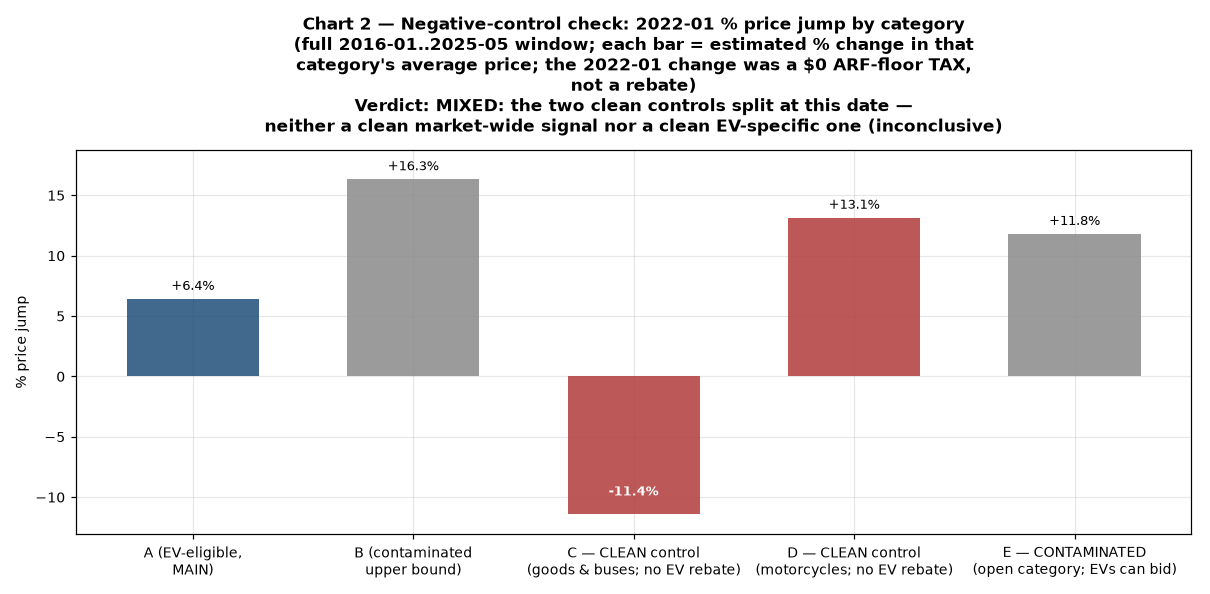
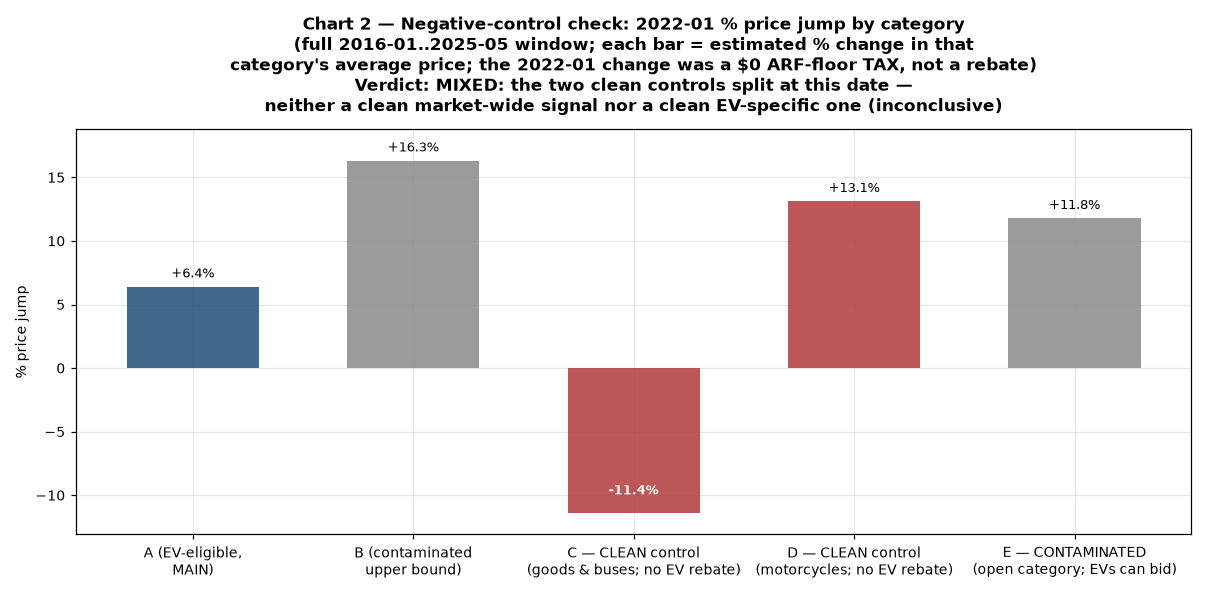
Chart 2: collapse the 2nd title line from 3 lines to 2
The parenthetical now breaks once ('...% change in that' / "category's average
price; ... not a rebate)"); both lines fit with >=403px margin (rendered
width re-measured, 0 clip risks).

diff --git a/src/13_charts.py b/src/13_charts.py
@@ -258,8 +258,7 @@ def chart02() -> None:
     ax.set_title(
         "Chart 2 — Negative-control check: 2022-01 % price jump by category\n"
         "(full 2016-01..2025-05 window; each bar = estimated % change in that\n"
-        "category's average price; the 2022-01 change was a $0 ARF-floor TAX,\n"
-        "not a rebate)\n"
+        "category's average price; the 2022-01 change was a $0 ARF-floor TAX, not a rebate)\n"
         f"Verdict: {verdict}",
         pad=12,
     )
